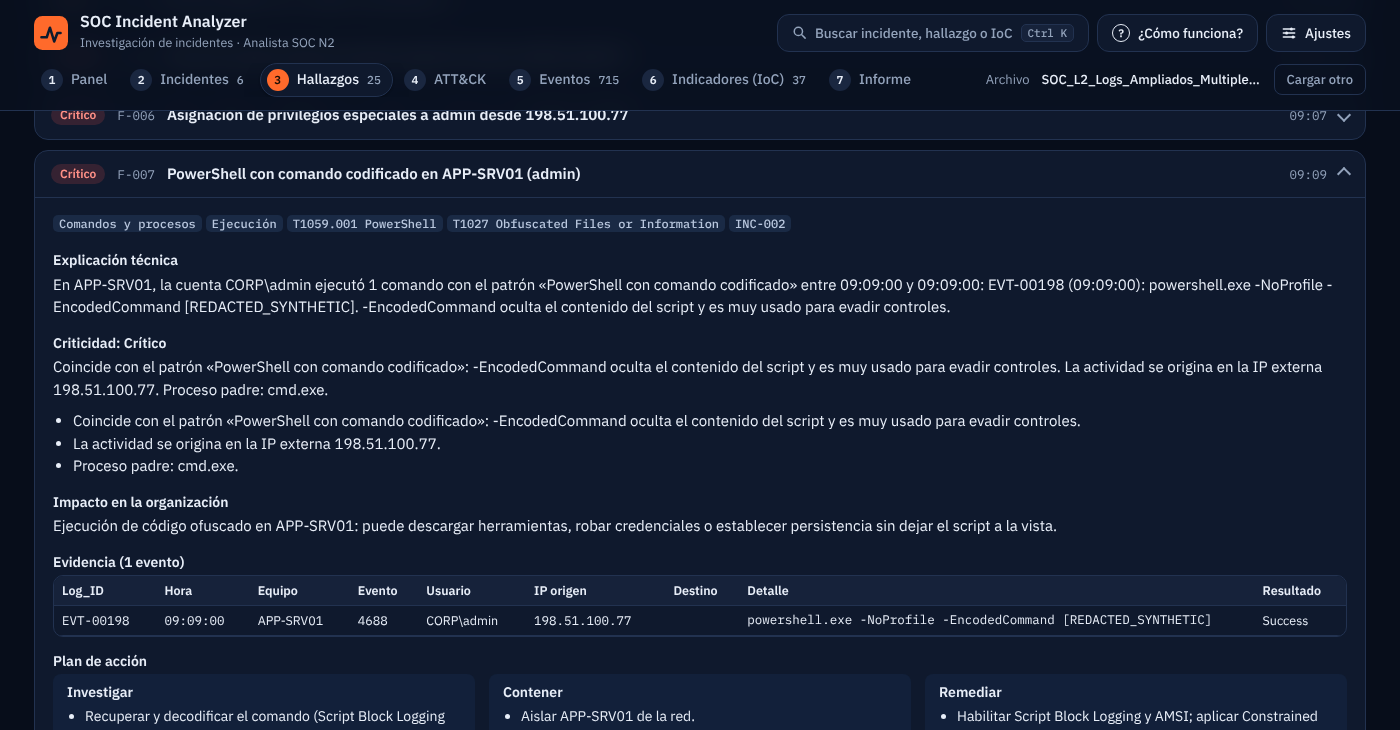
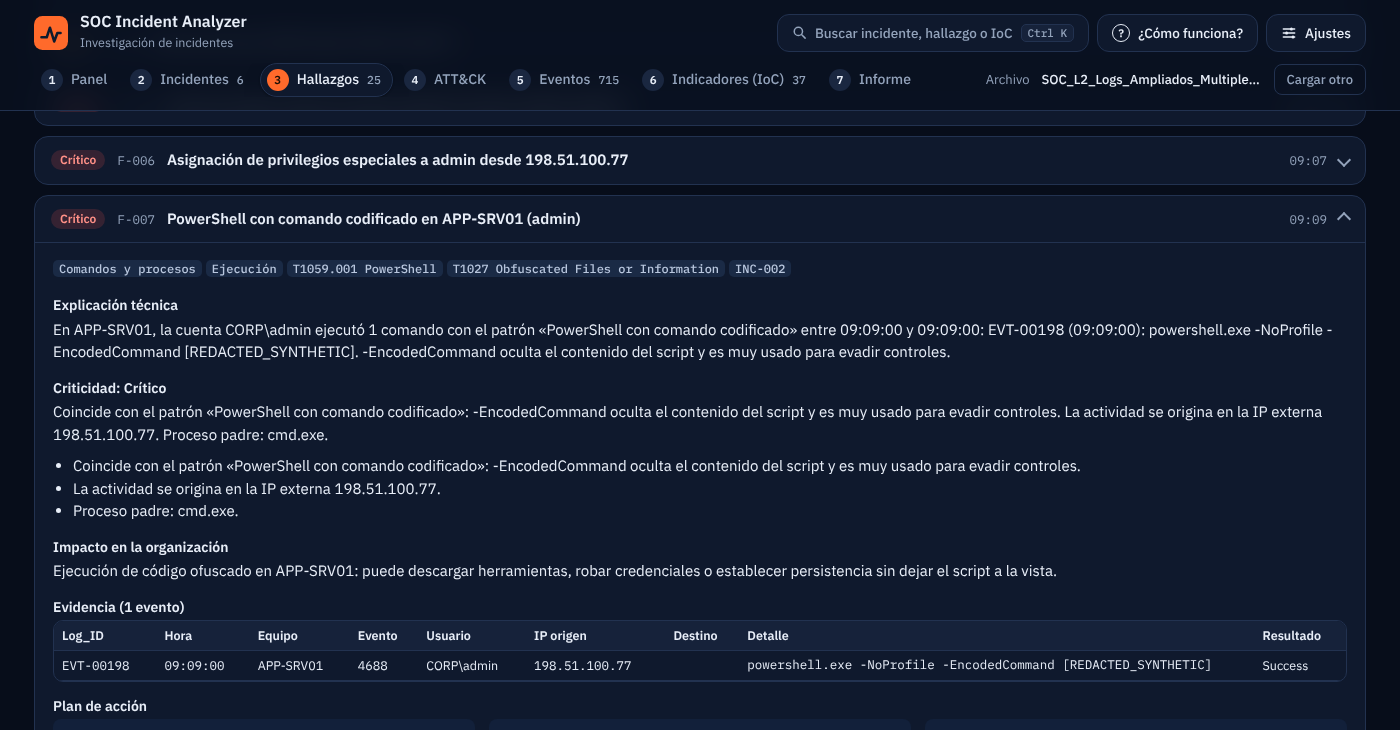
Add files via upload

diff --git a/frontend/index.html b/frontend/index.html
@@ -16,7 +16,7 @@
       <div class="top-row">
         <a class="brand" href="#/" aria-label="SOC Incident Analyzer, inicio">
           <svg width="34" height="34" viewBox="0 0 32 32" aria-hidden="true"><rect width="32" height="32" rx="8" fill="#ff6a2b"/><path d="M7 20h5l3-9 4 13 3-8h3" fill="none" stroke="#0e1b2e" stroke-width="2.4" stroke-linecap="round" stroke-linejoin="round"/></svg>
-          <span><strong>SOC Incident Analyzer</strong><small id="brandSub">Investigación de incidentes · Analista SOC N2</small></span>
+          <span><strong>SOC Incident Analyzer</strong><small id="brandSub">Investigación de incidentes</small></span>
         </a>
         <div class="tools">
           <button class="tool wide" id="searchBtn" aria-label="Buscar casos, hallazgos e indicadores (Ctrl+K)">

diff --git a/backend/report.py b/backend/report.py
@@ -278,7 +278,7 @@ def _on_page(canvas, doc, meta):
 # documento
 # --------------------------------------------------------------------------
 def build_pdf(analysis: dict, ai: dict, df: pd.DataFrame, meta: dict, intel: dict | None = None) -> bytes:
-    meta = {"client": meta.get("client") or "Cliente", "analyst": meta.get("analyst") or "Analista SOC Nivel 2",
+    meta = {"client": meta.get("client") or "Cliente", "analyst": meta.get("analyst") or "Analista SOC",
             "filename": meta.get("filename") or "export_siem.xlsx"}
     buf = io.BytesIO()
     doc = BaseDocTemplate(buf, pagesize=A4, leftMargin=MARGIN, rightMargin=MARGIN, topMargin=18 * mm, bottomMargin=16 * mm,

diff --git a/backend/ai.py b/backend/ai.py
@@ -26,7 +26,7 @@ from .playbook import GENERAL_RECOMMENDATIONS, GENERIC, PLAYBOOK
 DEFAULT_MODEL = "claude-sonnet-5-5"
 IP_TOKEN = re.compile(r"\b\d{1,3}(?:\.\d{1,3}){3}\b")
 
-SYSTEM_PROMPT = """Eres un analista SOC Nivel 2 senior de una consultora de ciberseguridad. Redactas el análisis técnico de \
+SYSTEM_PROMPT = """Eres un analista SOC senior de una consultora de ciberseguridad. Redactas el análisis técnico de \
 incidentes para el cliente, en español claro y profesional.
 
 REGLAS ESTRICTAS (rigor analítico):

diff --git a/CHANGELOG.md b/CHANGELOG.md
@@ -8,6 +8,7 @@ Formato basado en [Keep a Changelog](https://keepachangelog.com/es-ES/1.1.0/) y 
 - Fondo animado en la pantalla de inicio (barrido de radar, anillos y red de nodos en un `<canvas>`, `frontend/bg.js`). Solo se anima en el inicio, usa los colores del tema, respeta **Movimiento: reducido** y `prefers-reduced-motion`, y se pausa si la pestaña no está visible.
 
 ### Cambiado
+- Se quita «Analista SOC N2» de la cabecera, del analista por defecto del informe («Analista SOC») y del rol que se le da a la IA («analista SOC senior»).
 - Se quita el texto sobre el export de ejemplo de la pantalla de inicio; el botón **Probar con datos de ejemplo** sigue disponible.
 
 ## [1.2.0] - 2026-11-04
